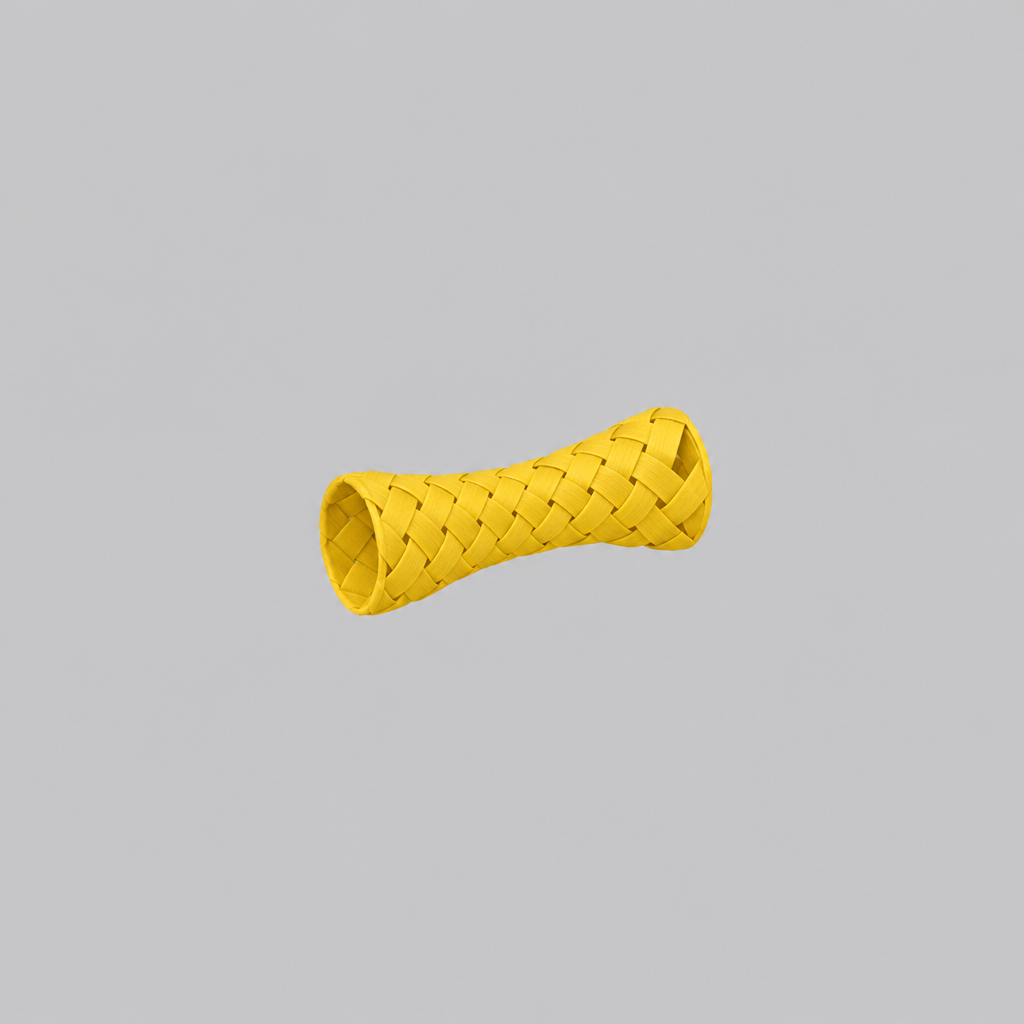
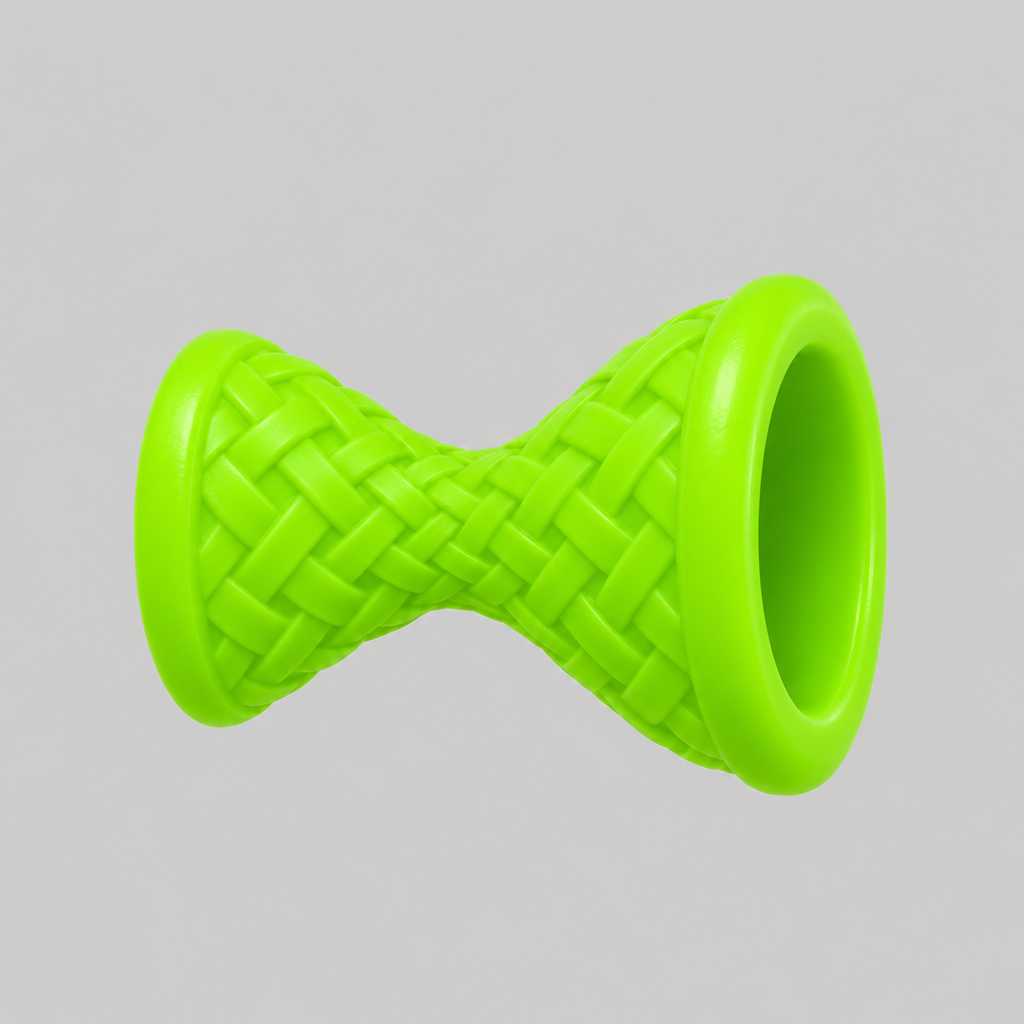
art(debaucheryville): arcade batch 7 redo refs for finger trap and sobriety test (asset team)
Claude-Session: https://claude.ai/code/session_01Rk2Ri3vAu7TBhRadSU9CbJ

Changed region(s): [[0.125, 0.25, 0.875, 0.7812]]

diff --git a/dev/asset_team/icon_refs/aa_prize_sobriety_test_deluxe_prompt.md b/dev/asset_team/icon_refs/aa_prize_sobriety_test_deluxe_prompt.md
@@ -1,7 +1,7 @@
-# aa_prize_sobriety_test_deluxe (Sobriety Test Deluxe): 3D icon reference prompt
+# aa_prize_sobriety_test_deluxe (Sobriety Test Deluxe): 3D icon reference prompt, round 2
 
-Firefly Generations page, GPT Image 2.5 Sunburst, 1:1, Quality Extra High, no reference images. Desk Eurobound-d3x-q13: agents design from the docs. No lettering anywhere (the docs give no exact text). Rounds: 1. Margins L29.6 R29.6 T35.1 B31.6 (percent, Pillow).
-Canon: absinthe_arcade_prize_catalogue.md line 41; key_items.json line 73 (palm-sized plastic maze, three silver balls, one hole). The doc gives no colour, so one even royal blue was chosen.
-Note: Shows: a chunky opaque blue plastic slab with a thick moulded maze, three chrome balls and one dark hole. No clear lid. No lettering.
+Round 1 failed A3 (loose balls in open channels, thin ribs, free block). Round 2: Firefly Generations page, GPT Image 2.6 Sunburst, 1:1, Quality Extra High, no references. Margins L15.6 R16.7 T20.9 B15.9 (percent, Pillow). No lettering.
+Canon: absinthe_arcade_prize_catalogue.md line 41; key_items.json line 73 (palm-sized plastic maze, three silver balls, one hole). Colour is not in the doc: one even royal blue chosen. Shape changed to a sealed domed puck per the QC brief.
+Shows: opaque blue domed puck, three chrome balls fixed in shallow dimples, one dark hole.
 
-Generate an image: A single cheap arcade prize toy, drawn SMALL in the middle of a big empty flat light-grey square. A palm-sized handheld tilt-maze puzzle: a fat chunky rectangular slab of solid opaque royal-blue plastic, with a thick raised maze of chunky walls moulded into its top face in the same blue plastic, three large shiny chrome silver balls sitting in the maze channels, and one single round dark hole in the maze. No glass cover, no clear lid, no transparency, no thin walls, no loose parts, no hands. Three-quarter view from above. No text, no letters, no numbers, no people, no shadows. Square image.
+Generate an image: A single cheap arcade prize toy, centred in a flat light-grey square, filling about 55 percent of the frame. A chunky sealed handheld ball-maze toy: a fat solid slab of opaque royal-blue plastic with a smooth raised domed top, and on the dome's top surface three large shiny chrome silver balls each sitting fixed in its own shallow round dimple moulded into the surface, plus one single round dark hole. A big smooth rounded body, no ribs, no walls, no maze channels, no glass, no clear lid, no transparency, no thin parts, no loose parts, no free-standing blocks, no hands. Three-quarter view from above. No text, no letters, no numbers, no people, no shadows. Square image.

diff --git a/dev/asset_team/icon_refs/aa_prize_pinky_promise_prison_prompt.md b/dev/asset_team/icon_refs/aa_prize_pinky_promise_prison_prompt.md
@@ -1,7 +1,7 @@
-# aa_prize_pinky_promise_prison (Pinky Promise Prison): 3D icon reference prompt
+# aa_prize_pinky_promise_prison (Pinky Promise Prison): 3D icon reference prompt, round 2
 
-Firefly Generations page, GPT Image 2.5 Sunburst, 1:1, Quality Extra High, no reference images. Desk Eurobound-d3x-q13: agents design from the docs. No lettering anywhere (the docs give no exact text). Rounds: 1. Margins L31.2 R30.5 T39.7 B39.8 (percent, Pillow).
-Canon: absinthe_arcade_prize_catalogue.md line 38; key_items.json line 49 (woven paper tube that tightens the harder you pull).
-Note: Shows: a fat woven finger-trap tube in one even mustard yellow, slightly waisted as if pulled, open ends. No fingers. No lettering.
+Round 1 failed A3 (thin open woven shell, small, plain). Round 2: Firefly Generations page, GPT Image 2.6 Sunburst, 1:1, Quality Extra High, no references. Margins L13.1 R13.3 T26.8 B22.3 (percent, Pillow). No lettering.
+Canon: absinthe_arcade_prize_catalogue.md line 38; key_items.json line 49 (woven tube that tightens the harder you pull).
+Shows: a comically oversized solid acid lime-green moulded plastic finger trap, hourglass-pinched, thick lips, moulded weave bumps.
 
-Generate an image: A single cheap arcade prize toy, drawn SMALL in the middle of a big empty flat light-grey square. A novelty woven Chinese finger trap: a short fat chunky tube of woven paper straw in ONE even bright mustard-yellow colour, thick coarse diagonal basket weave, both ends open and rounded, slightly stretched and a little narrowed in the middle as if being pulled, solid chunky and fat. No thin loose threads, no frayed fibres, no hands, no fingers, no transparency, no loose parts. Three-quarter view. No text, no letters, no people, no shadows. Square image.
+Generate an image: A single cheap arcade prize toy, centred in a flat light-grey square, filling about 55 percent of the frame. A comically oversized novelty finger trap made of solid chunky moulded plastic, like a fat rubbery toy: a thick-walled heavy tube with a moulded diagonal woven basket pattern pressed into its surface as shallow bumps, in ONE loud even acid lime-green colour, both ends with a thick rounded lip and a deep round hole, squeezed and pinched tight in the middle like an hourglass as if being pulled hard. Smooth solid walls, no gaps, no see-through holes, no loose strands, no thin parts, no paper strips, no hands, no fingers. Three-quarter view. No text, no letters, no people, no shadows. Square image.
